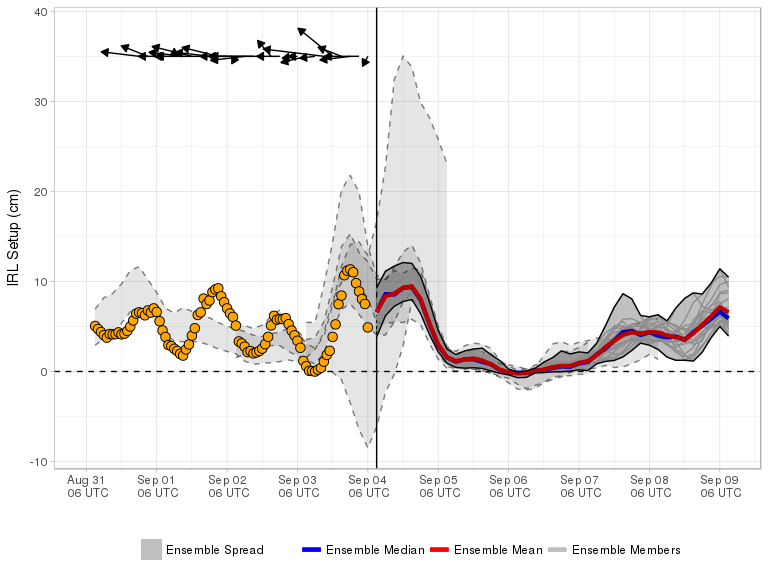
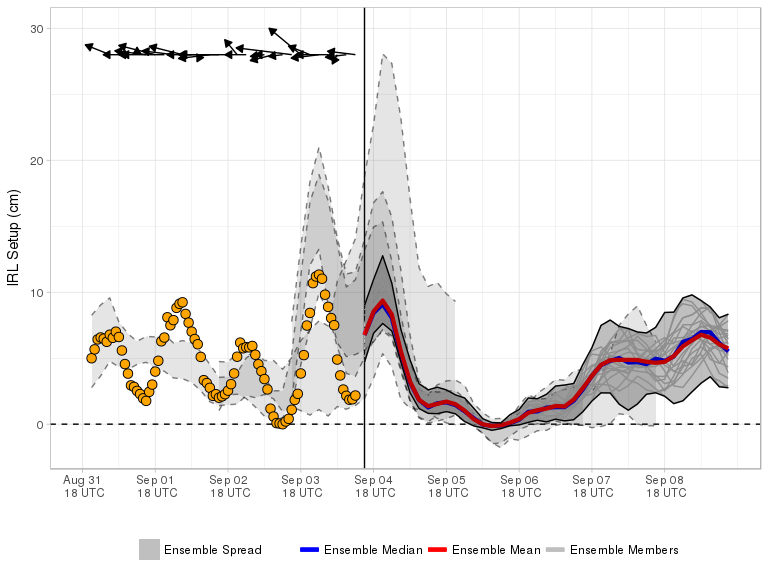
Forecast Update

diff --git a/docs/index.md b/docs/index.md
@@ -1,9 +1,9 @@
-Current Forecast 2018-09-04, Cycle 00 UTC
+Current Forecast 2018-09-04, Cycle 06 UTC
 -----------------------------------------
 
 [![](img/raw_setup.png)](https://fit-winds.github.io/IRLSetup/img/raw_setup.png)
 
-> Forecast valid 2018-09-04 02:26:44.
+> Forecast valid 2018-09-04 08:27:32.
 
 Explanation
 -----------
@@ -23,7 +23,7 @@ Ensemble Forecast System
 cycles. Calculation of the IRL setup is performed shortly after a new
 GEFS cycle is made available on the [data access
 link](http://www.ftp.ncep.noaa.gov/data/nccf/com/gens/prod/). The
-current cycle 2018-09-04 00 UTC 0.5° GEFS mean and median forecasts of
+current cycle 2018-09-04 06 UTC 0.5° GEFS mean and median forecasts of
 setup are represented by the red and blue curves, respectively. Ensemble
 spread from the current and three previous GEFS runs are shaded grey and
 bounded by solid and dashed curves, respectively.
